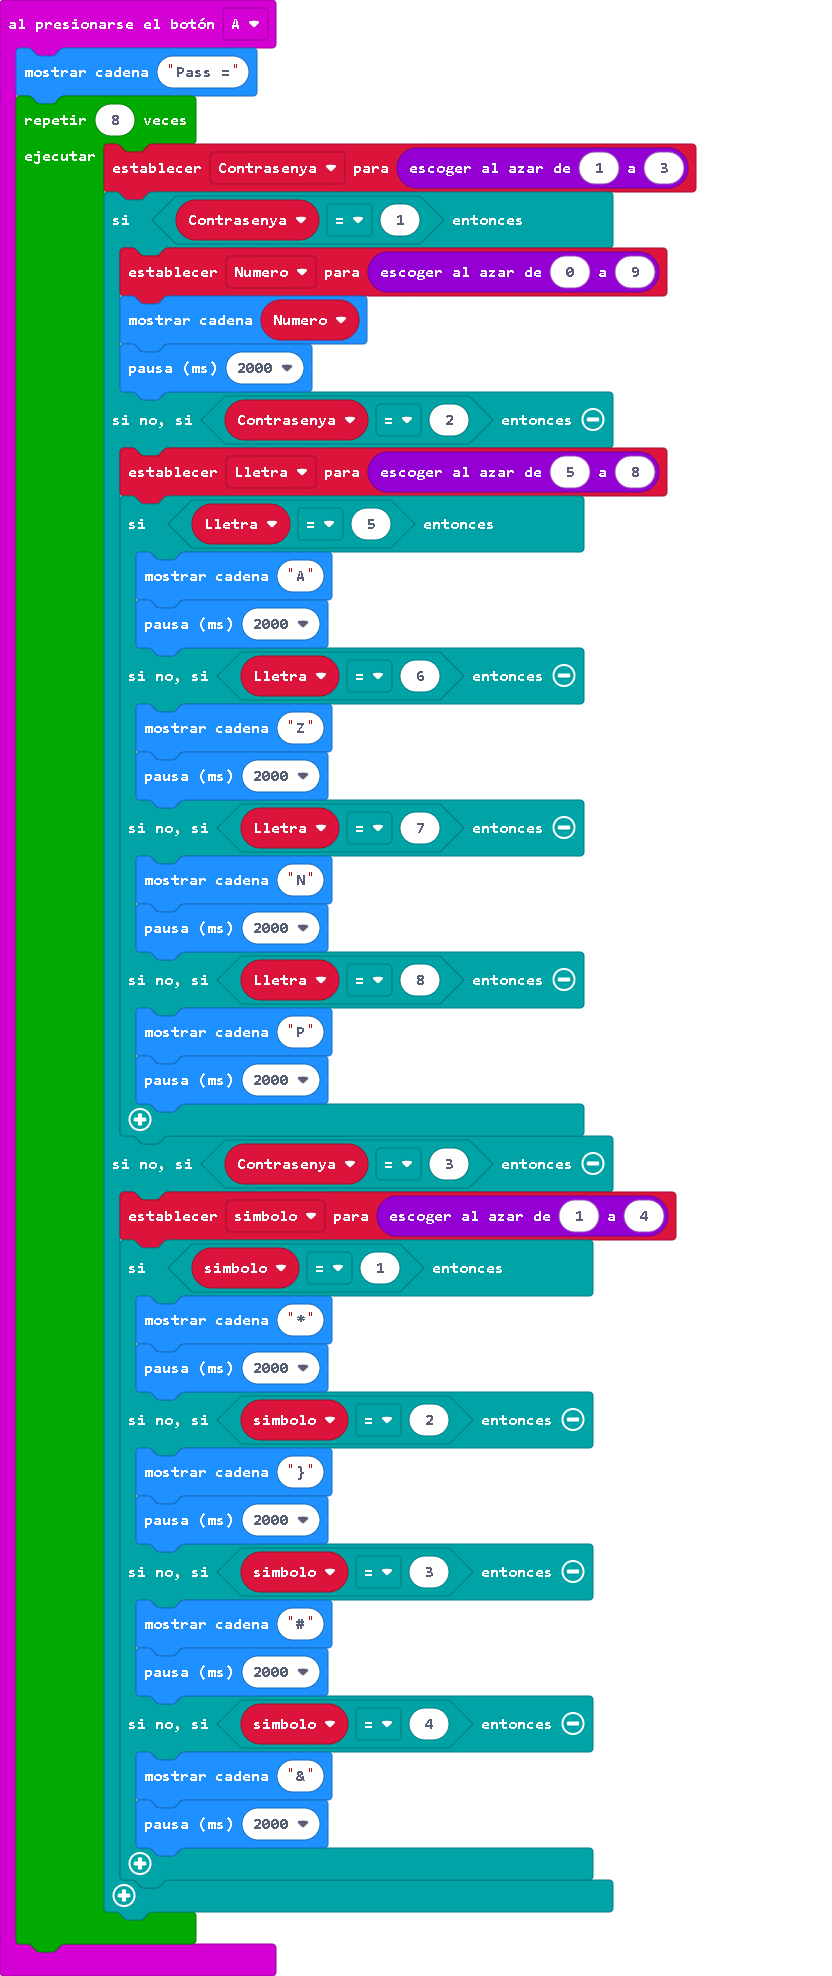
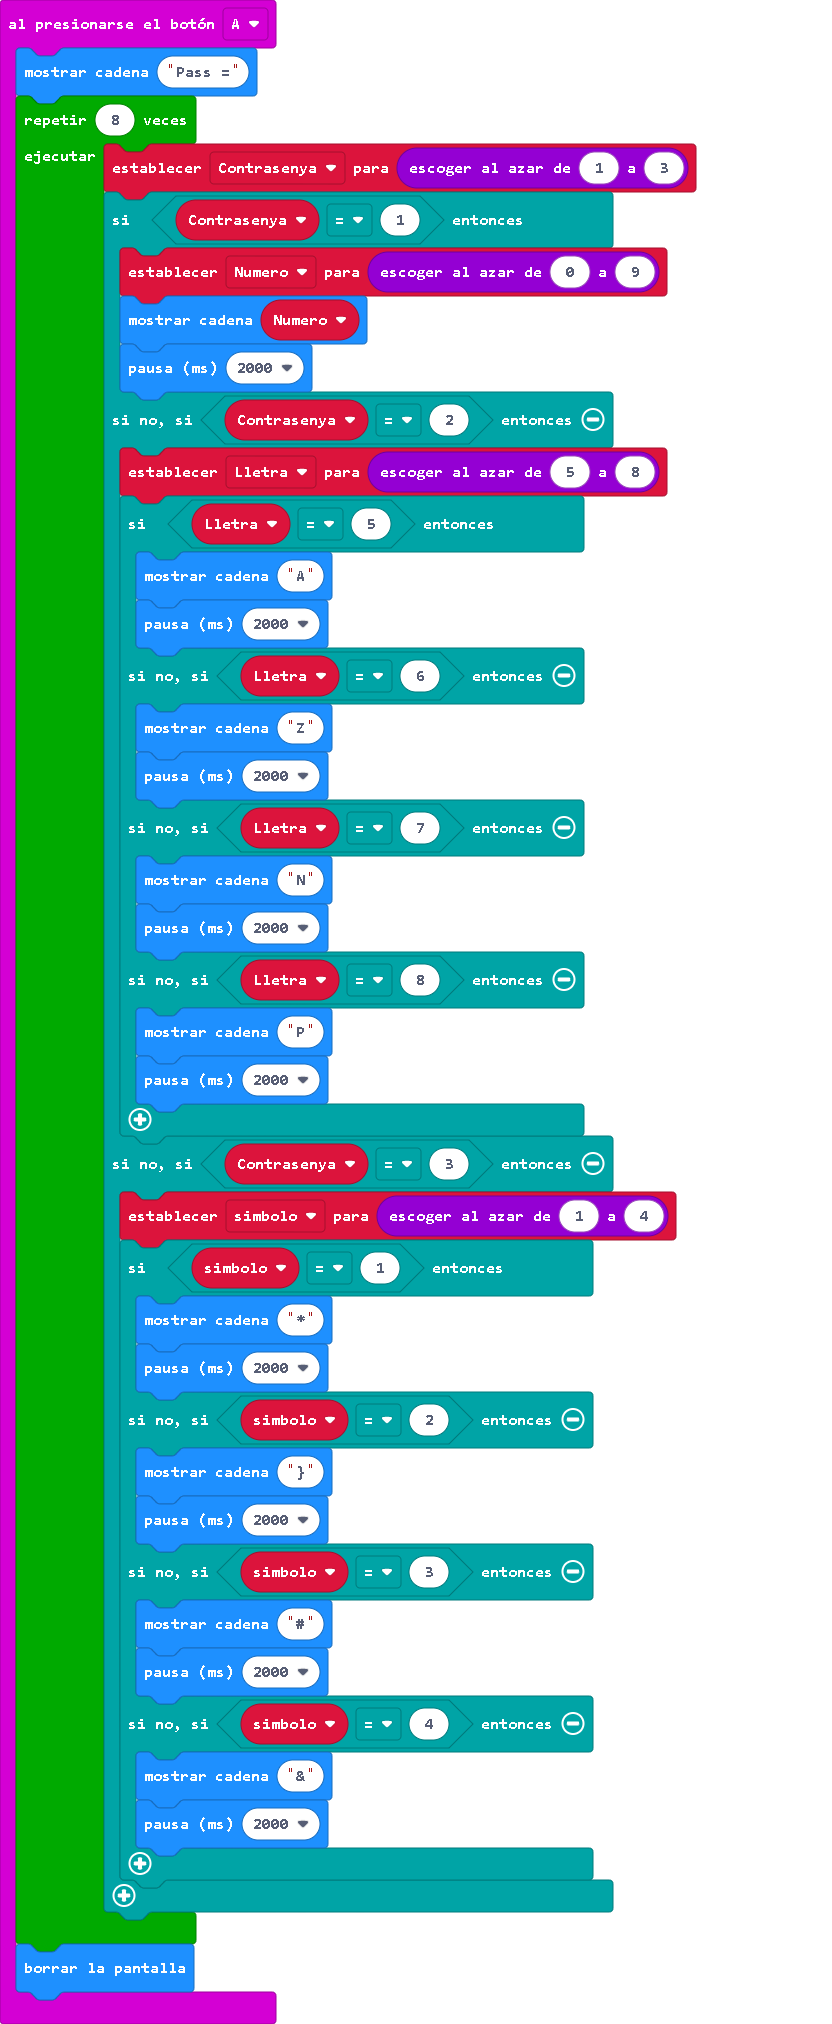
Actualizar main.blocks, main.ts

Changed region(s): [[0.0, 0.0, 0.8438, 0.9879]]

diff --git a/main.ts b/main.ts
@@ -42,4 +42,5 @@ input.onButtonPressed(Button.A, function () {
             }
         }
     }
+    basic.clearScreen()
 })
